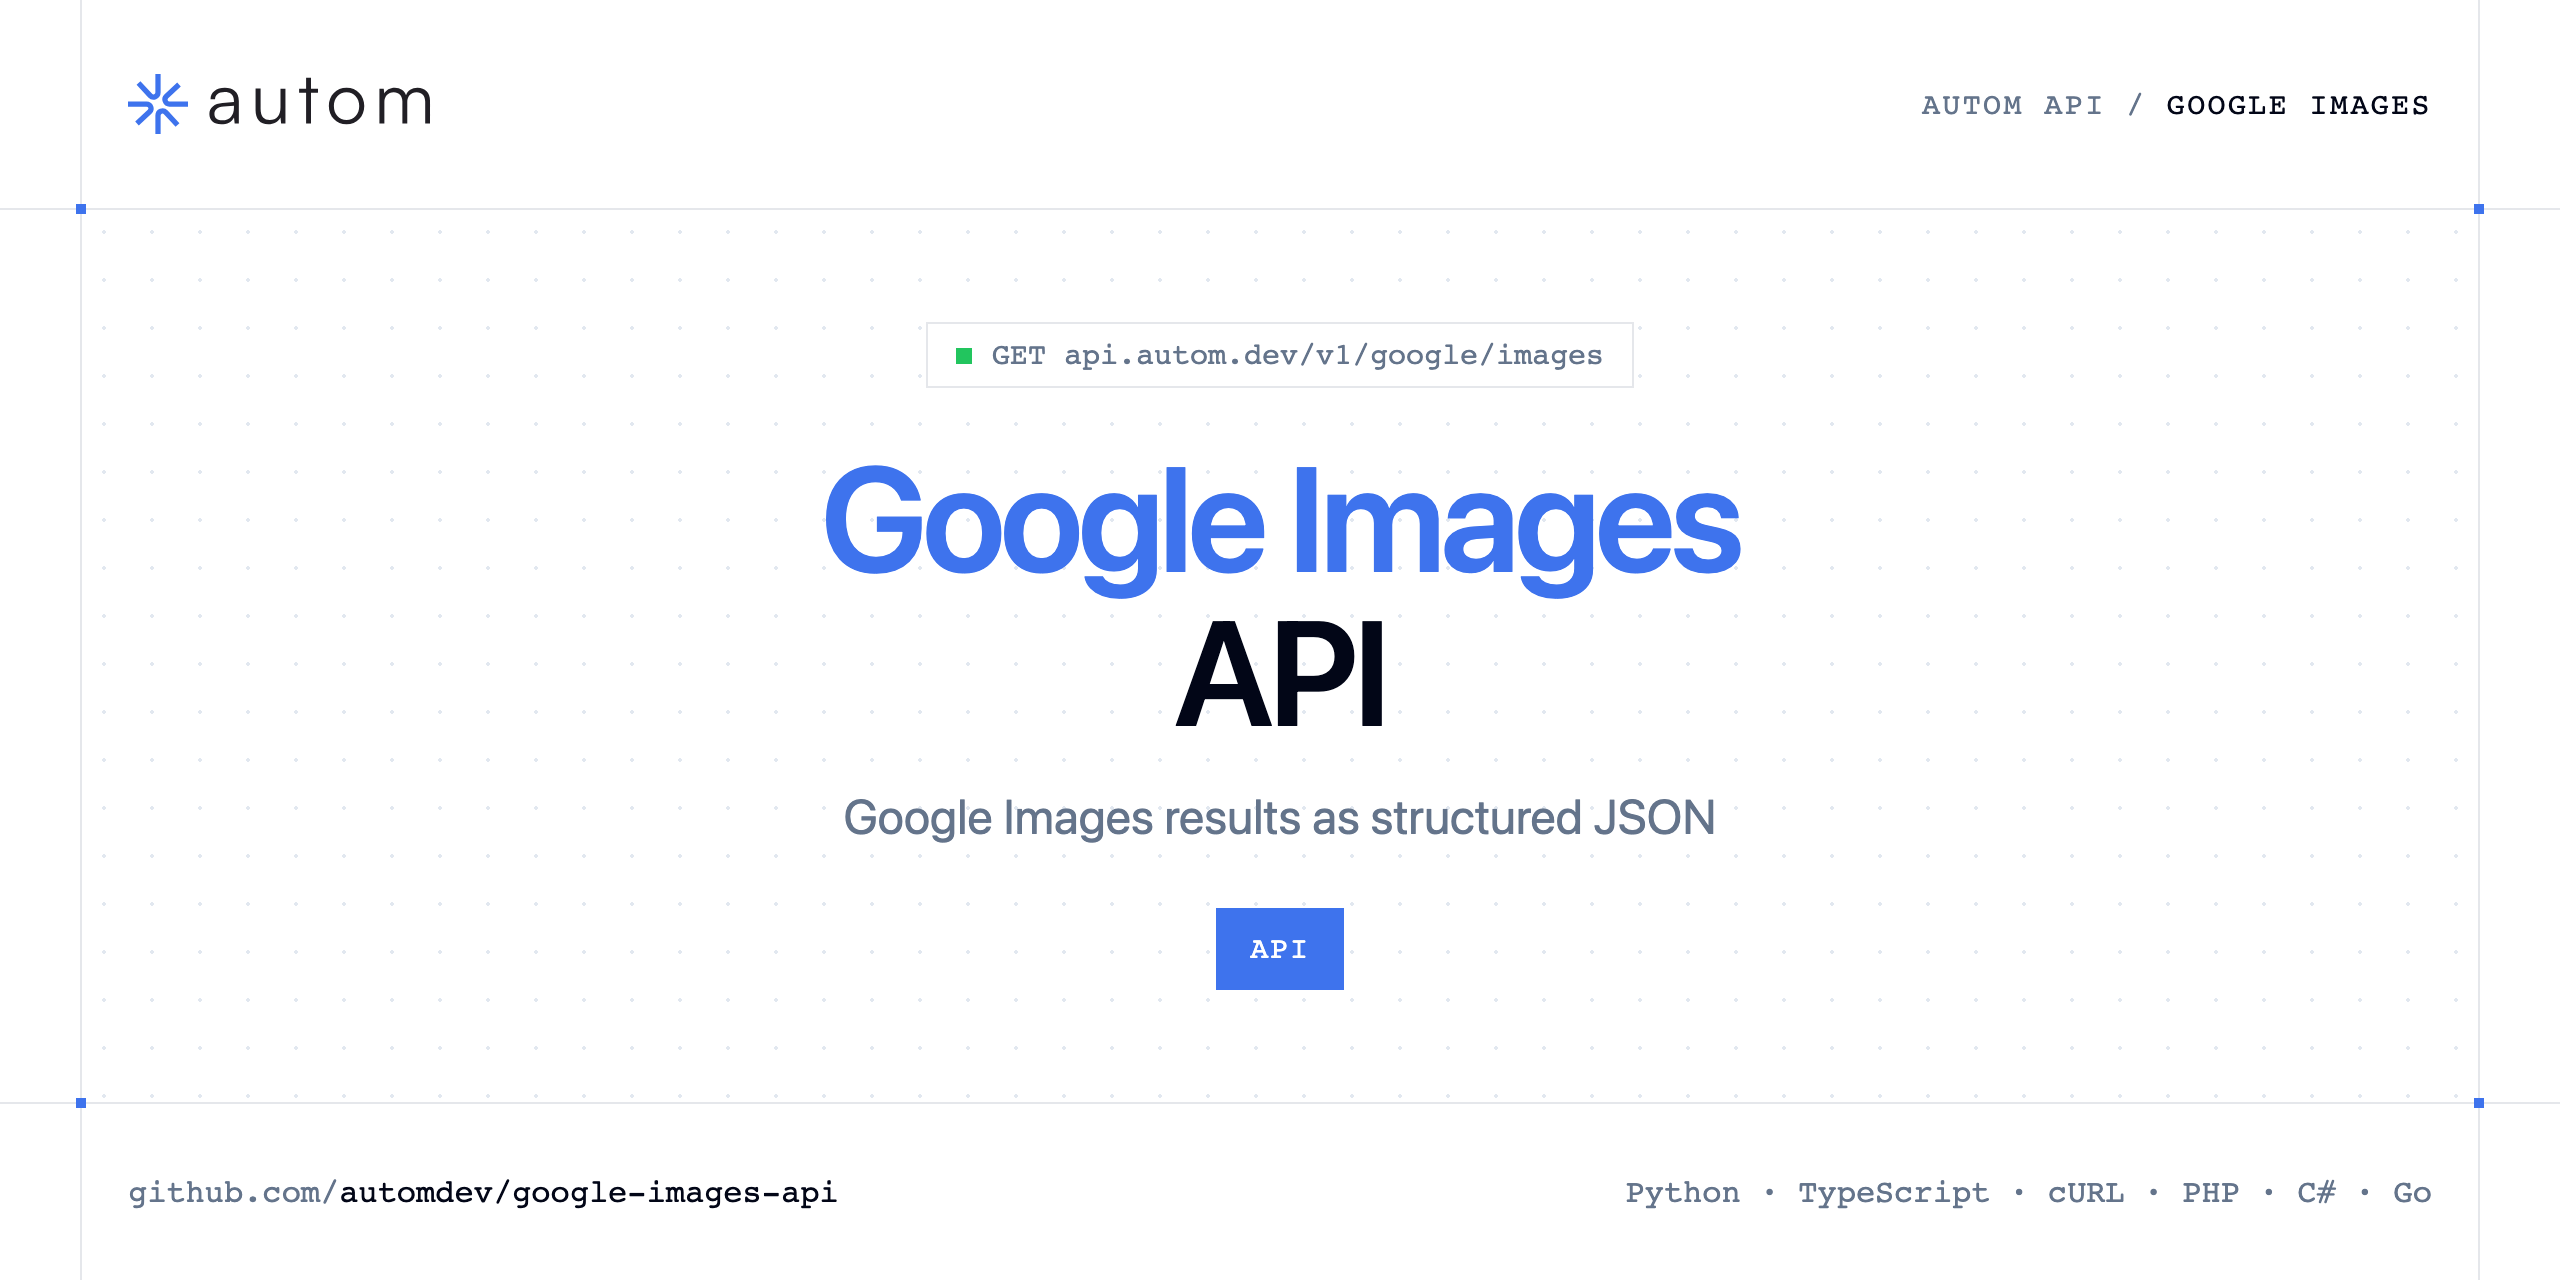
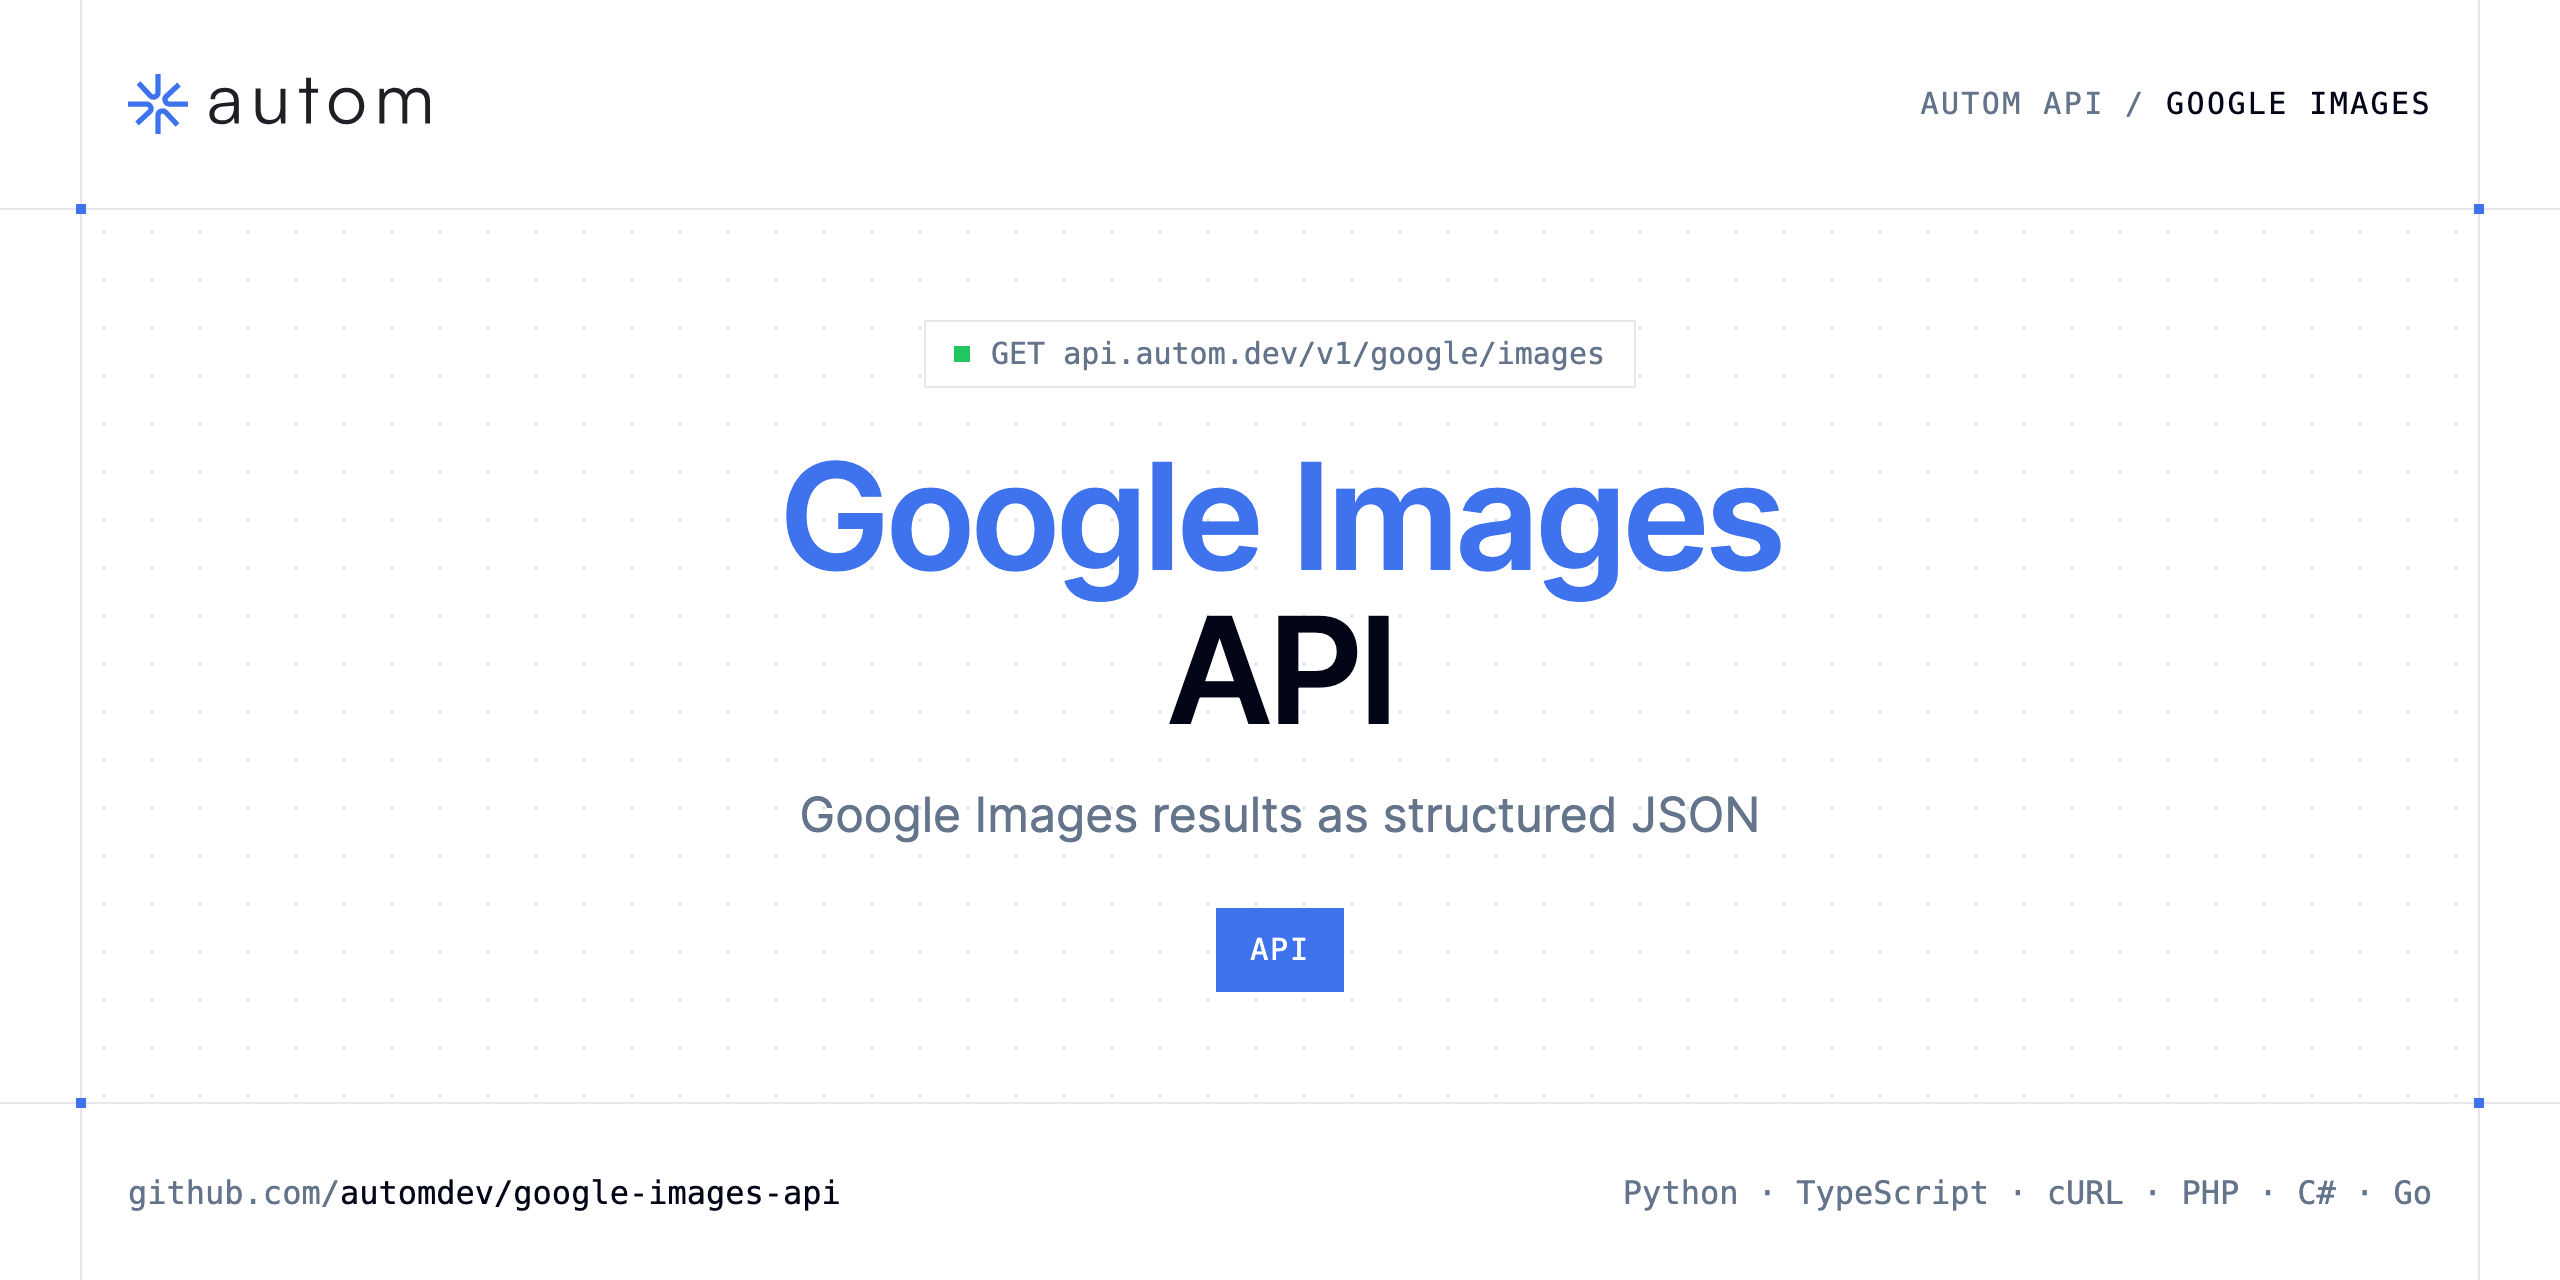
Update Google Images API examples and docs

diff --git a/README.md b/README.md
@@ -55,7 +55,6 @@ Search Google Images via API and retrieve image results (URLs, titles, sources, 
 | `hl` | query | string | — | Language to use for the search (two-letter language code, e.g. `en`, `fr`). |
 | `google_domains` | query | string | — | Google domain to use (e.g. `google.com`, `google.fr`). |
 | `async` | query | boolean | — | If true, returns a job and lets you fetch results asynchronously. |
-| `safe` | query | string | — | Adult content filter. `active` enables Google SafeSearch; `off` disables it. Omit to use Google default. |
 
 ### Python example
 
